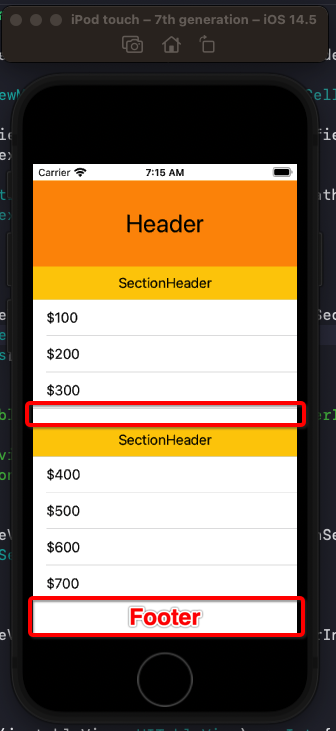
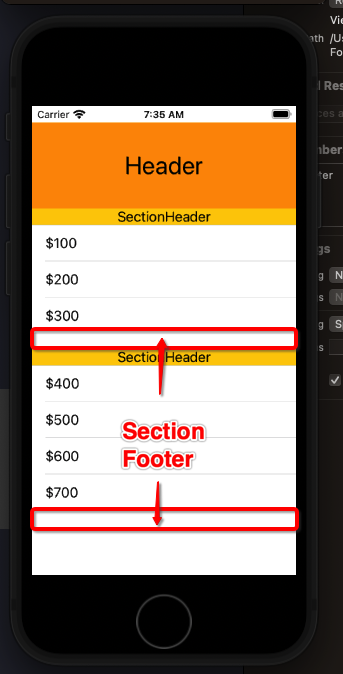
cleanup

diff --git a/basics/UITableView/HeaderFooterNib/README.md b/basics/UITableView/HeaderFooterNib/README.md
@@ -78,7 +78,7 @@ extension ViewController: UITableViewDataSource {
 
 ![](images/1b.png)
 
-## Add the table view header
+## Add a header
 
 Create a new header view and nib and assign the `File's Owner` like a plain old nib. 
 
@@ -443,13 +443,6 @@ extension ViewController: UITableViewDataSource {
 
 ![](images/3b.png)
 
-You'll notice when you scroll that the section header floats as you scroll up to it. If you don't want that, change the type of 
-
-![](images/3c.png)
-
-This will add a footer to the bottom. But it will also ensure your section header no longer floats.
-
-![](images/3d.png)
 
 Note: The `heightForHeaderInSection` setting will override the height constraint in the nib. So if you set it to something really small.
 
@@ -471,6 +464,38 @@ It will override the nib.
 
 ![](images/3e.png)
 
+### Floating section header
+
+You'll notice when you scroll that the section header floats as you scroll up to it. If you don't want that, change the table `style` to `Grouped`.
+
+![](images/3c.png)
+
+This will get rid of the scrolling, but it will also make visible the section footer.
+
+![](images/3d.png)
+
+To hide the footers add these (we will replace them with real footers shortly).
+
+```swift
+// Hide footer
+extension ViewController : UITableViewDataSource {
+
+    func tableView(_ tableView: UITableView, viewForFooterInSection section: Int) -> UIView? {
+        return UIView()
+    }
+
+    func tableView(_ tableView: UITableView, heightForFooterInSection section: Int) -> CGFloat {
+        return CGFloat.leastNormalMagnitude
+    }
+    
+}
+```
+
+![](images/3i.png)
+
+
+### More complex section headers
+
 Using this technique you can create custom headers and custom section headers.
 
 ![](images/3f.png)
@@ -488,35 +513,73 @@ To get the layout above:
 
 ![](images/3h.png)
 
-### Hiding the footer
 
-We aren't going to do this, but if you want to hide the footer add the following 
+## Add a section footer
+
+To add a footer, like we did before with header, create a plain old nib and set its `File's Owner` as well as create an outlet for its `contentView`.
+
+![](images/4a.png)
+
+**FooterView**
 
 ```swift
-// Hide footer
-extension ViewController : UITableViewDelegate {
-    func tableView(_ tableView: UITableView, heightForFooterInSection section: Int) -> CGFloat {
-        return CGFloat.leastNormalMagnitude
-    }
+import Foundation
+import UIKit
 
-    func tableView(_ tableView: UITableView, viewForFooterInSection section: Int) -> UIView? {
-        return UIView()
+class SectionFooterView: UIView {
+    
+    @IBOutlet var contentView: UIView!
+    
+    override init(frame: CGRect) {
+        super.init(frame: frame)
+        commonInit()
+    }
+    
+    required init?(coder aDecoder: NSCoder) {
+        super.init(coder: aDecoder)
+        commonInit()
+    }
+    
+    override var intrinsicContentSize: CGSize {
+        return CGSize(width: UIView.noIntrinsicMetric, height: 104)
+    }
+    
+    private func commonInit() {
+        let bundle = Bundle(for: SectionFooterView.self)
+        bundle.loadNibNamed("SectionFooterView", owner: self, options: nil)
+        addSubview(contentView)
+        
+        contentView.translatesAutoresizingMaskIntoConstraints = false
+        contentView.topAnchor.constraint(equalTo: self.topAnchor).isActive = true
+        contentView.rightAnchor.constraint(equalTo: self.rightAnchor).isActive = true
+        contentView.bottomAnchor.constraint(equalTo: self.bottomAnchor).isActive = true
+        contentView.leftAnchor.constraint(equalTo: self.leftAnchor).isActive = true
     }
 }
 ```
 
-![](images/3i.png)
+Then return the footer view and set the height just like we did before with the header only in the footer delegate section.
 
-## Create a footer
+**ViewController**
 
-Add a footer is the same as adding a header. Create a nib plain old nib and set its `File's Owner`.
+```swift
+// MARK: - UITableViewDataSource
+extension ViewController: UITableViewDataSource {
+    ...    
+    func tableView(_ tableView: UITableView, viewForFooterInSection section: Int) -> UIView? {
+        let footerView = SectionFooterView()
+        return footerView
+    }
 
-Create an outlet for its `contentView`.
+    func tableView(_ tableView: UITableView, heightForFooterInSection section: Int) -> CGFloat {
+        return 40
+    }
+}
+```
 
-Then add it to your view controller like this.
+## Add a footer
 
-
-
+Same as header. Only footer.
 
 
 
